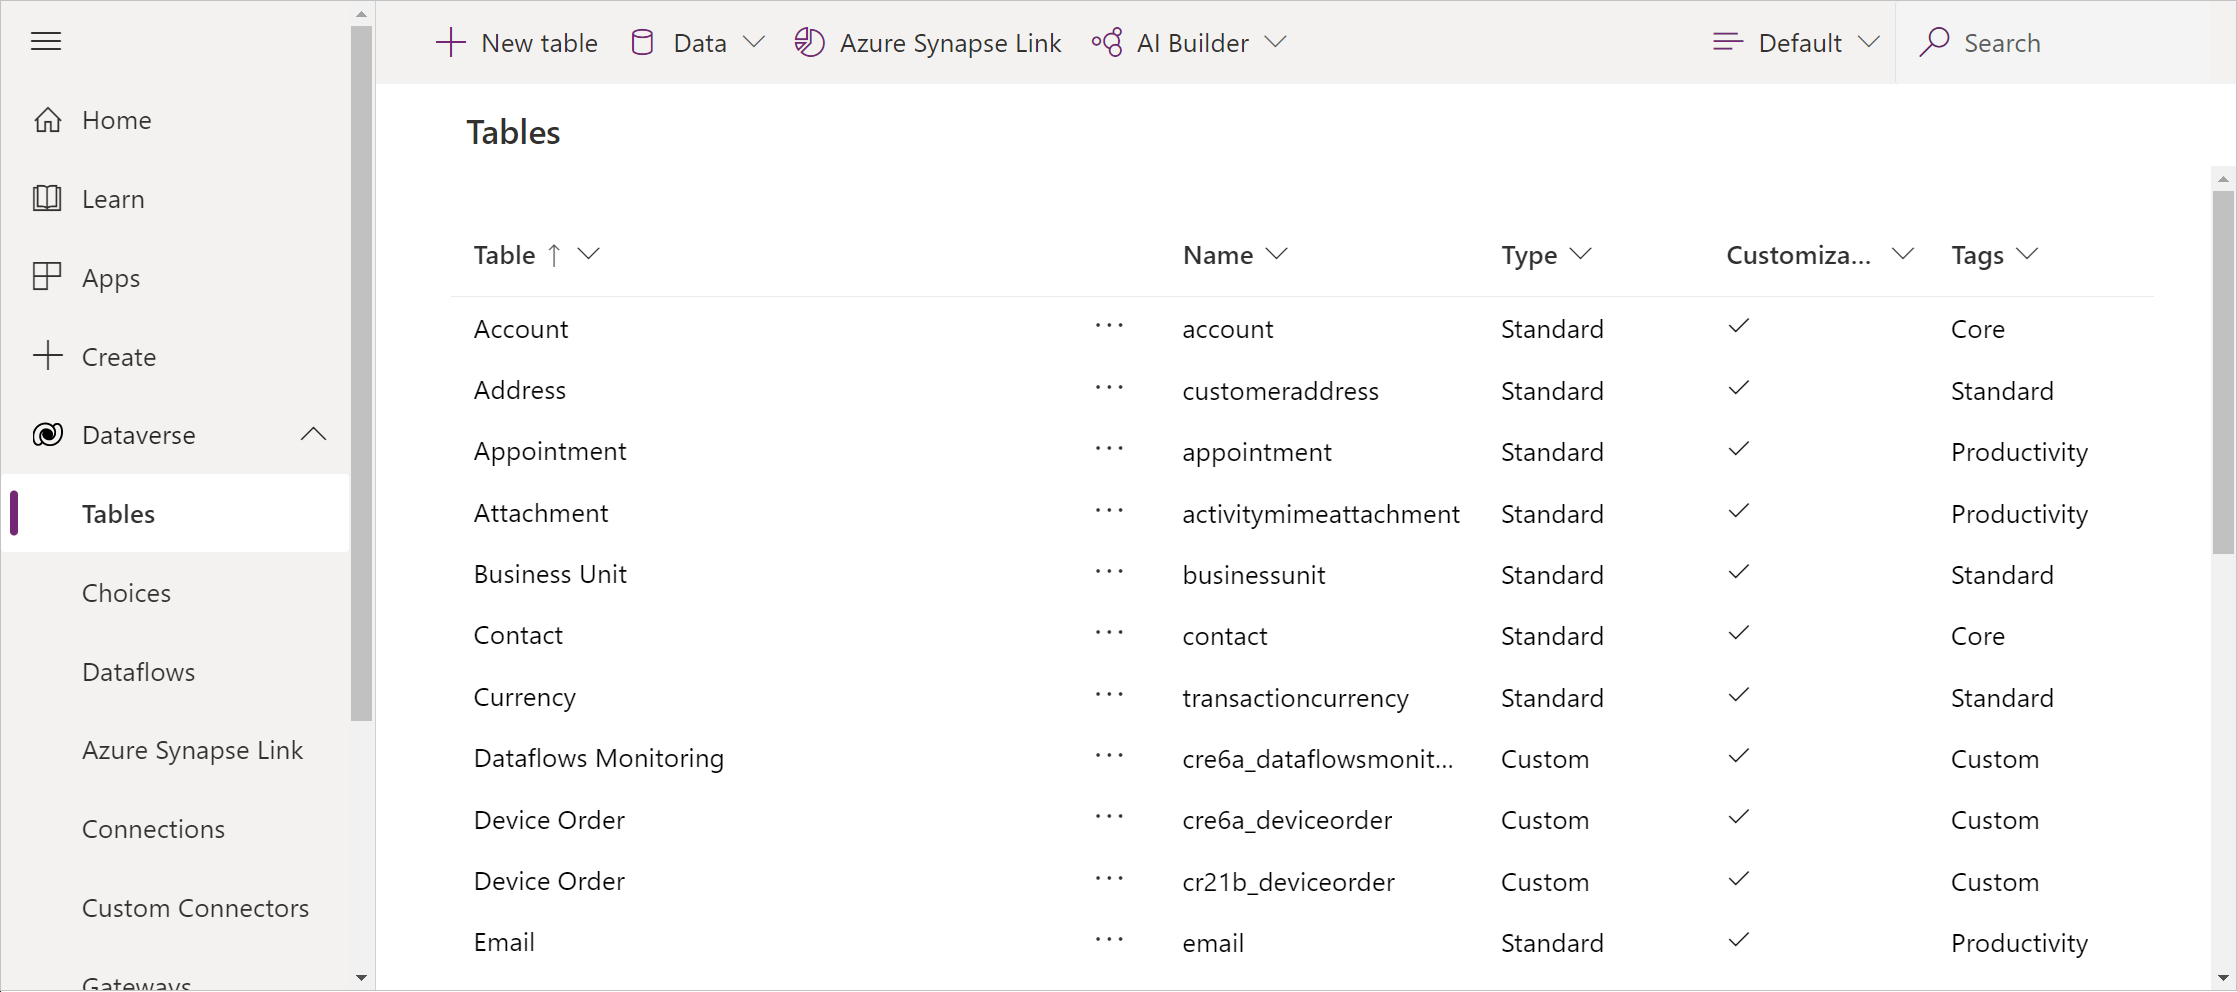
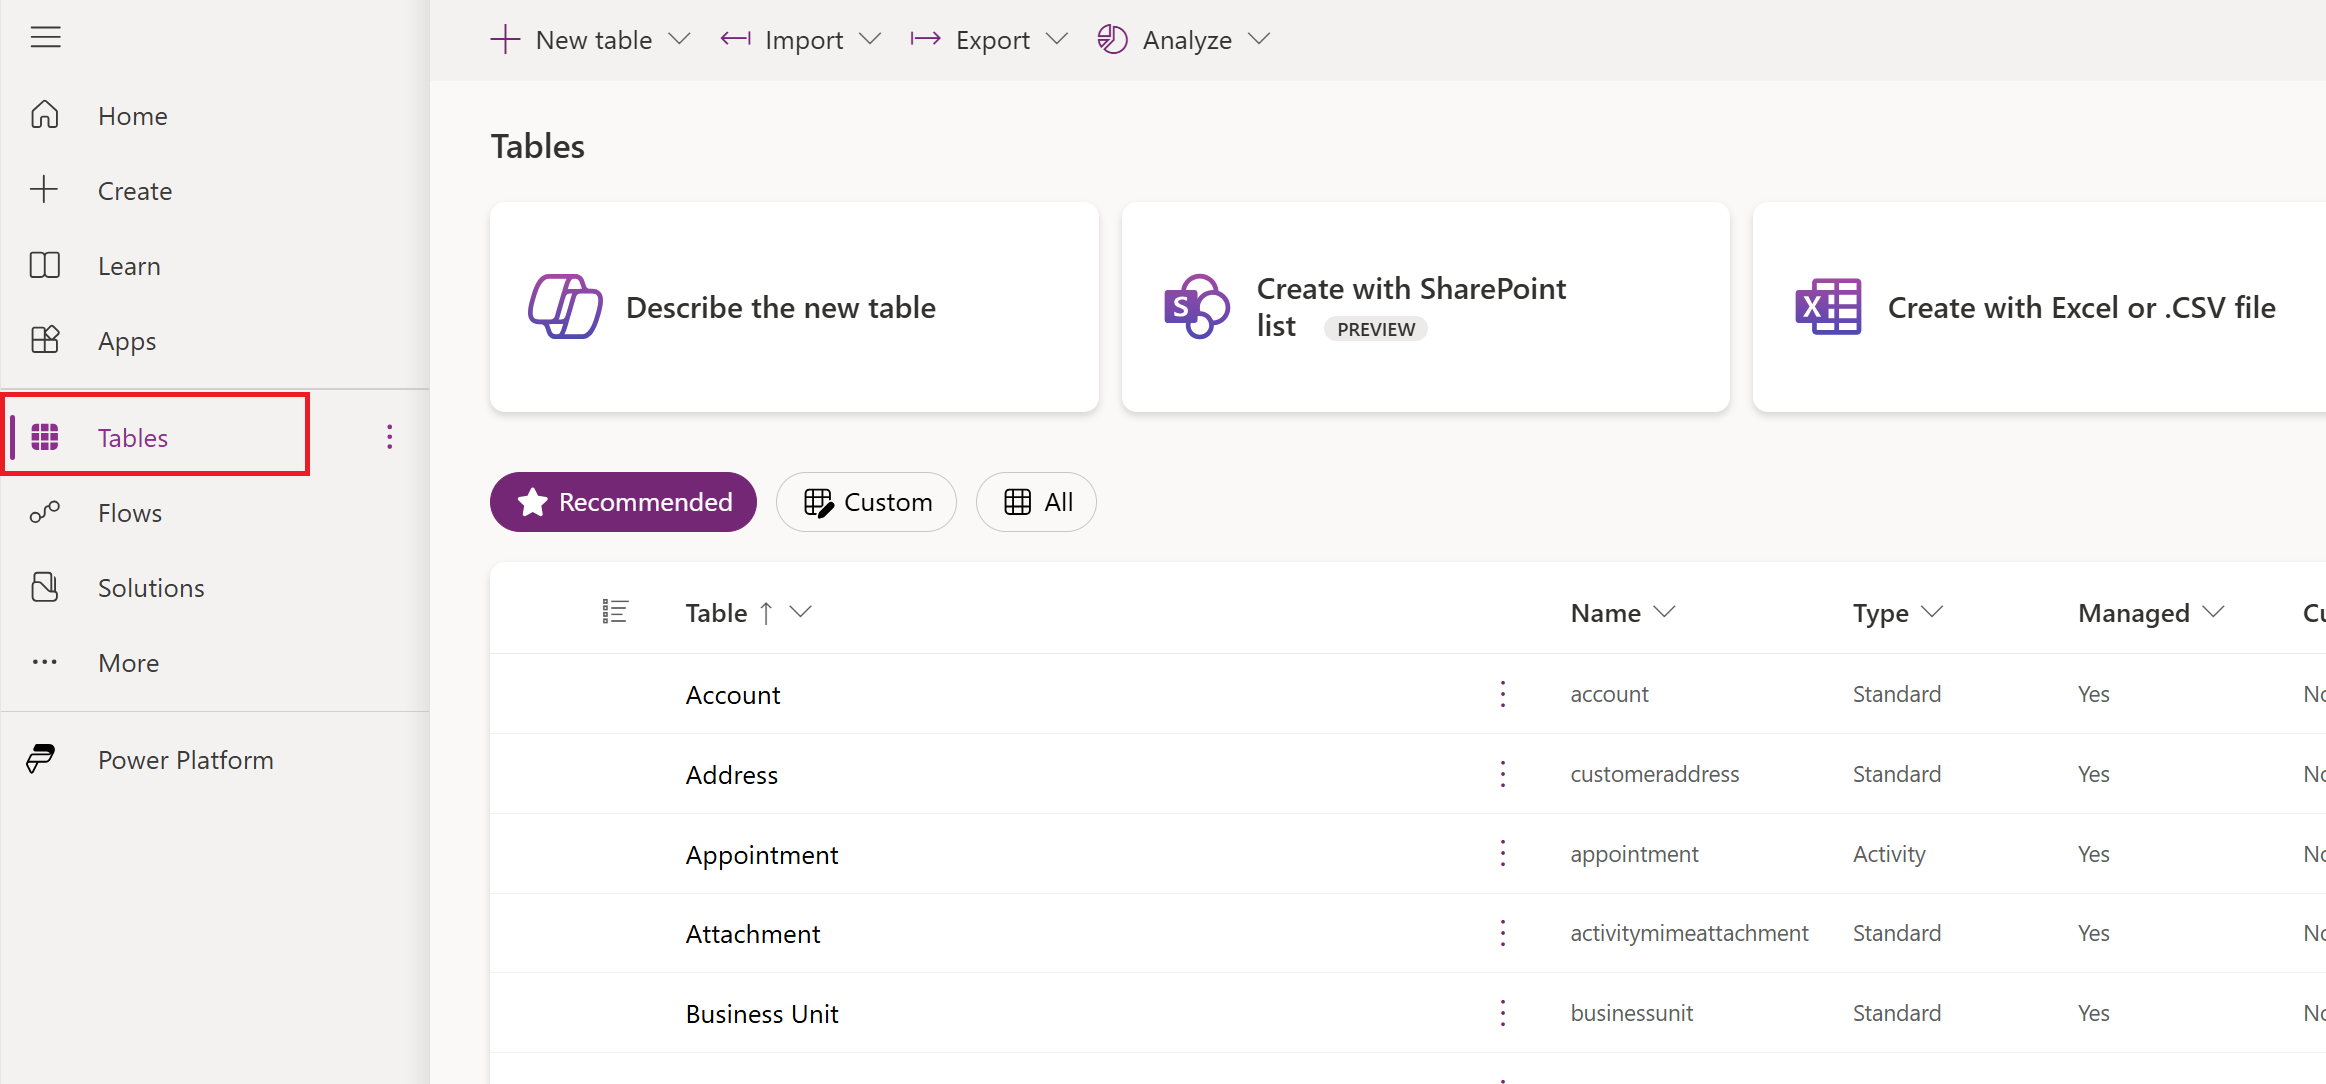
Updated add data to a table in Dataverse article

diff --git a/powerquery-docs/dataflows/add-data-power-query.md b/powerquery-docs/dataflows/add-data-power-query.md
@@ -4,13 +4,13 @@ description: Step-by-step instructions for how to use Power Query to add data to
 author: Luitwieler
 ms.reviewer: dougklo
 ms.topic: how-to
-ms.date: 1/6/2023
+ms.date: 5/29/2024
 ms.author: jeluitwi
 ---
 
 # Add data to a table in Microsoft Dataverse by using Power Query
 
-In this procedure, you'll create a table in [Dataverse](/powerapps/maker/data-platform/data-platform-intro) and fill that table with data from an OData feed by using Power Query. You can use the same techniques to integrate data from these online and on-premises sources, among others:
+In this procedure, you create a table in [Dataverse](/powerapps/maker/data-platform/data-platform-intro) and fill that table with data from an OData feed by using Power Query. You can use the same techniques to integrate data from these online and on-premises sources, among others:
 
 * SQL Server
 * Salesforce
@@ -36,15 +36,15 @@ Before you start to follow this article:
 
 1. Sign in to [Power Apps](https://make.powerapps.com/?utm_source=padocs&utm_medium=linkinadoc&utm_campaign=referralsfromdoc).
 
-1. In the navigation pane, select **Dataverse** to expand it, and then select **Tables**.
+1. In the navigation pane, select **Tables**.
 
-    :::image type="content" source="./media/add-data-power-query/view-entities-portal.png" alt-text="Tables area.":::
+    :::image type="content" source="./media/add-data-power-query/view-entities-portal.png" alt-text="Screenshot of the navigation pane with the Tables tab selected and the Tables pane open." lightbox="./media/add-data-power-query/view-entities-portal.png":::
 
-1. In the command menu, select **Data** > **Get data**.
+1. In the command menu, select **Import** > **Import data**.
 
 1. In the list of data sources, select **OData**.
 
-    :::image type="content" source="./media/add-data-power-query/choose-odata.png" alt-text="Choose the OAuth connector.":::
+    :::image type="content" source="./media/add-data-power-query/choose-odata.png" alt-text="Screenshot of the Power Query Data sources selection open and the OData connector emphasized." lightbox="./media/add-data-power-query/choose-odata.png":::
 
 1. Under **Connection settings**, type or paste this URL, and then select **Next**:
 
@@ -52,17 +52,17 @@ Before you start to follow this article:
 
 1. In the list of tables, select the **Customers** check box, and then select **Next**.
 
-    :::image type="content" source="./media/add-data-power-query/select-table.png" alt-text="Select the Customers table.":::
+    :::image type="content" source="./media/add-data-power-query/select-table.png" alt-text="Screenshot of the Power Query navigator dialog, with the Customers table selected.":::
 
 1. (optional) Modify the schema to suit your needs by choosing which columns to include, transforming the table in one or more ways, adding an index or conditional column, or making other changes.
 
 1. In the lower-right corner, select **Next**.
 
-## Specify the target table
+## Specify the target table (Preview)
 
 1. Under **Load settings**, select **Load to new table**.
 
-    :::image type="content" source="./media/add-data-power-query/new-entity-name.png" alt-text="Load to new table.":::
+    :::image type="content" source="./media/add-data-power-query/load-to-new-table.png" alt-text="Screenshot of the load settings menu with Load to new table set." lightbox="./media/add-data-power-query/load-to-new-table.png":::
 
     You can give the new table a different name or display name, but leave the default values to follow this tutorial exactly.
 
@@ -76,13 +76,47 @@ Before you start to follow this article:
 
     The **Customers** table that you created from an OData feed appears as a custom table.
 
-    :::image type="content" source="./media/add-data-power-query/entity-list.png" alt-text="List of standard and custom tables.":::
+    :::image type="content" source="./media/add-data-power-query/entity-list.png" alt-text="Screenshot of the list of standard and custom tables with the Customers table emphasized." lightbox="./media/add-data-power-query/entity-list.png":::
 
 > [!WARNING]
 > Existing data might be altered or deleted when loading data to a Dataverse table while having the **Delete rows that no longer exist in the query output** enabled or a primary key column defined.
 
-If you select **Load to existing table**, you can specify a table into which you add data from the **Customers** table. You could, for example, add the data to the **Account** table with which the Dataverse ships. Under **Column mapping**, you can further specify that data in the **ContactName** column from the **Customers** table should be added to the **Name** column in the **Account** table.
+## Load to existing table (Preview)
 
-:::image type="content" source="./media/add-data-power-query/existing-entity.png" alt-text="Specify the name of the new table.":::
+If you select **Load to existing table**, you can specify an existing Dataverse table to load data to.
+
+When you select the table dropdown, there can be up to three recommended Dataverse tables to select from at the top of the dropdown, followed by all other Dataverse tables. These table recommendations are based on comparing the column metadata (column names and column types) with the column metadata of existing Dataverse tables. Up to three Dataverse tables are recommended with the strongest recommendation listed first. If no recommendations are found, the dropdown defaults to only listing all tables.
+
+:::image type="content" source="./media/add-data-power-query/recommended-tables.png" alt-text="Screenshot of the Choose destination settings dialog with the recommended tables." lightbox="./media/add-data-power-query/recommended-tables.png":::
+
+After selecting which Dataverse table to load data into, you then choose the import method. Append is selected by default and adds the data as more rows to the previously selected Dataverse table. Merge updates existing rows within your Dataverse table. If **Merge** is selected, there's an option to select the primary key column that you want to use.
+
+:::image type="content" source="./media/add-data-power-query/import-method-selection.png" alt-text="Screenshot of the Choose destination settings dialog with the import method choice displayed." lightbox="./media/add-data-power-query/import-method-selection.png":::
+
+## Column mapping (Preview)
+
+After you select a destination Dataverse table and specify the import method, the columns are grouped into mapped, possible match, and unmapped. You can toggle between these groupings by selecting the **Mapped**, **Possible match**, or **Unmapped** tabs at the top or stay in the default **Show all** tab that lists all mappings.  
+
+:::image type="content" source="./media/add-data-power-query/column-mapping.png" alt-text="Screenshot of the Choose destination settings dialog with the column mapping choices displayed.":::
+
+The source and destination column mappings are grouped as follows:
+
+* **Mapped**: High confidence semantic match between the meanings of the column names and both column data types are the same.
+
+* **Unmapped**: There are no high confidence semantic column matches found for this column. If this column is a required column, you must manually select a source column to map this data to before proceeding.
+
+* **Possible match**: Semantic match between the meanings of the column names, but the source and destination column data types are different.
+
+When manual changes are made to the mapping the source column, the status changes to **Mapped** unless the column data types are different. In that case, the status updates to **Possible match**. As with all possible matches, a recommended action message recommends that you go back one step in the dataflow and change the source column type to match the destination column type in the Dataverse table.  
+
+## Known Limitations
+
+Currently, AI Assisted mapping can only detect type mismatches between columns. Other column mapping challenges in the following list aren't detected as they require previewing the records of incoming data:
+
+* **Truncation**: High confidence in semantic match between source and destination, but at least one record in the source has more characters than the character limit of the destination column.
+
+* **Value Limits**: High confidence in semantic match between source and destination, but at least one record in the source contains a value outside the range of the value limits set by the destination column.
+
+* **Lookup Values**: High confidence in semantic match between source and destination, but at least one record in the source contains a value not present in the lookup value set by the destination column.
 
 If an [error message about permissions](/powerapps/maker/data-platform/troubleshoot-power-query-issues) appears, contact your administrator.
